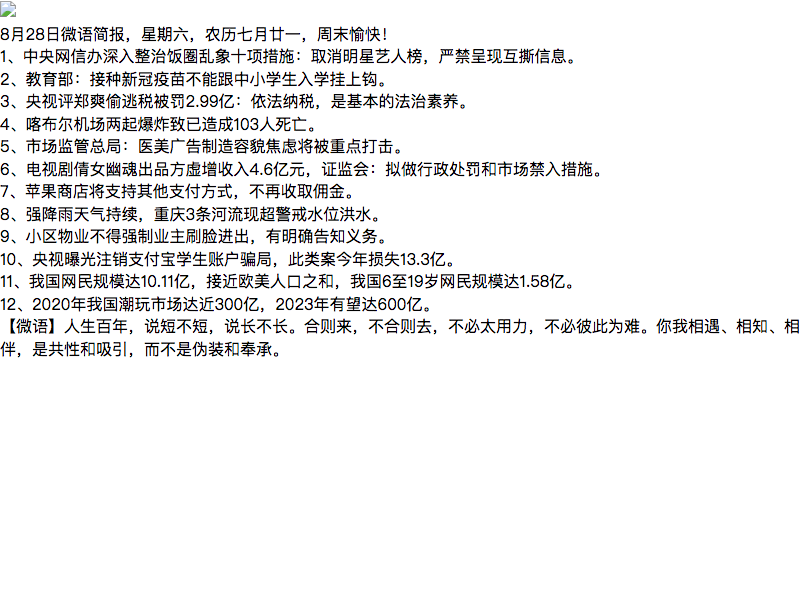
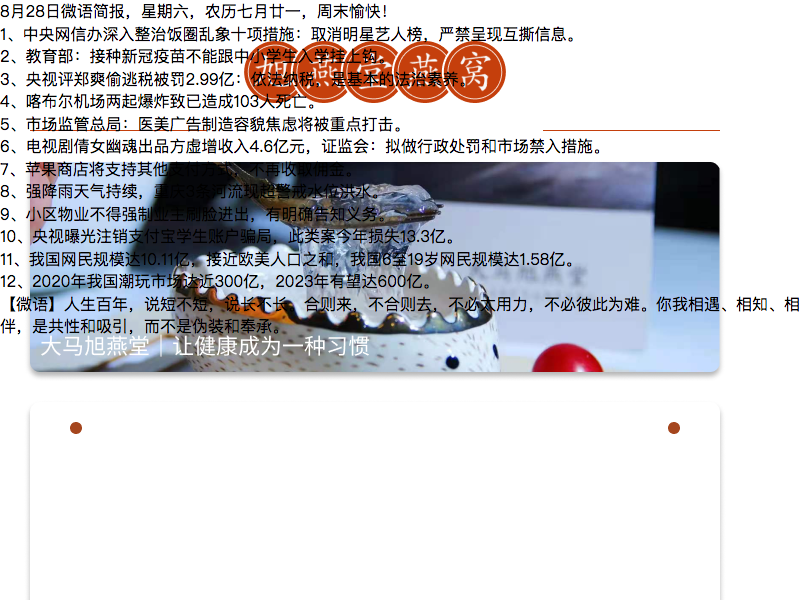
.

diff --git a/wei-yu-spider/html/index.html b/wei-yu-spider/html/index.html
@@ -7,17 +7,95 @@
         margin: 0;
       }
       .container {
-        /* width: 750px; */
+        display: flex;
+        flex-direction: column;
+        align-items: center;
       }
-      .template {
-        /* width: 750px; */
+      .content {
+        width: 690px;
+        opacity: 1;
+        background: #ffffff;
+        border-radius: 10px;
+        box-shadow: 0px 4px 6px 0px rgba(0, 0, 0, 0.3);
+        padding: 20px 70px 17px 70px;
+        font-size: 23px;
+        font-family: Source Han Sans CN, Source Han Sans CN-Regular;
+        font-weight: 400;
+        text-align: JUSTIFIED;
+        color: #a5461e;
+        line-height: 25px;
+      }
+      .content .content-text > p {
+        margin-bottom: 30px;
+      }
+      .every-day-sign {
+        opacity: 0.7;
+        font-size: 20px;
+        font-family: Source Han Sans CN, Source Han Sans CN-Regular;
+        font-weight: 400;
+        text-align: CENTER;
+        color: #a13f19;
+        letter-spacing: 2px;
+      }
+      .content-header {
+        display: flex;
+        justify-content: space-between;
+        align-items: center;
+        margin-bottom: 20px;
+      }
+      .content-header .ball {
+        width: 12px;
+        height: 12px;
+        opacity: 1;
+        background: #a5461e;
+        border-radius: 50%;
+        display: inline-block;
+      }
+      .weiyu {
+        width: 690px;
+        margin-top: 30px;
+      }
+      .weiyu > p {
+        opacity: 0.7;
+        font-size: 22px;
+        font-family: Source Han Sans CN, Source Han Sans CN-Regular;
+        font-weight: 400;
+        text-align: CENTER;
+        color: #a5461e;
       }
     </style>
   </head>
   <body>
     <div class="container">
-      <img class="template" src="./template.png" />
-      <p>8月25日微语简报，星期三，农历七月十八，工作愉快，生活喜乐！</p><p>1、北京住房租赁条例公开征求意见，租金上涨过快可调控。</p><p>2、多地报告本地群众被跨区拉到外地接种疫苗，将严厉打击。</p><p>3、中国残奥代表团开幕式第98个出场。</p><p>4、多款APP下线拍照搜题功能。</p><p>5、抚顺市教育局：义务教育阶段学科类校外培训机构关停率达100%，共关停204所。</p><p>6、福岛核污水排放方式基本敲定：用海底隧道引至海中排出。</p><p>7、联合国机构警告阿富汗9月出现粮食短缺。</p><p>8、美国科学家发现对抗新冠超级抗体：可对抗所有新冠变异毒株。</p><p>9、冲击BBC工作室后，英国反疫苗示威者再闯谷歌办公楼。</p><p>10、阿塔警告美国推迟撤军将越红线，拜登政府面临巨大压力。</p><p>11、乌克兰从阿富汗撤侨飞机遭不明人员劫持。</p><p>12、美实验室曾通报1500多起病原体相关事故。</p><p>【微语】死要面子不如活得痛快，你以为重要的东西，其实都是束缚你的枷锁。人最重要的，只有两样：自信和洒脱。</p>
+      <!-- <img class="template" src="https://github.com/wl05/code-demo/blob/master/wei-yu-spider/html/template.png?raw=true" /> -->
+      <div class="content">
+        <div class="content-header">
+          <span class="ball"></span>
+          <span class="ball"></span>
+        </div>
+        <section class="content-text">
+          <p>8月28日微语简报，星期六，农历七月廿一，周末愉快！</p>
+          <p>1、中央网信办深入整治饭圈乱象十项措施：取消明星艺人榜，严禁呈现互撕信息。</p>
+          <p>2、教育部：接种新冠疫苗不能跟中小学生入学挂上钩。</p>
+          <p>3、央视评郑爽偷逃税被罚2.99亿：依法纳税，是基本的法治素养。</p>
+          <p>4、喀布尔机场两起爆炸致已造成103人死亡。</p>
+          <p>5、市场监管总局：医美广告制造容貌焦虑将被重点打击。</p>
+          <p>6、电视剧倩女幽魂出品方虚增收入4.6亿元，证监会：拟做行政处罚和市场禁入措施。</p>
+          <p>7、苹果商店将支持其他支付方式，不再收取佣金。</p>
+          <p>8、强降雨天气持续，重庆3条河流现超警戒水位洪水。</p>
+          <p>9、小区物业不得强制业主刷脸进出，有明确告知义务。</p>
+          <p>10、央视曝光注销支付宝学生账户骗局，此类案今年损失13.3亿。</p>
+          <p>11、我国网民规模达10.11亿，接近欧美人口之和，我国6至19岁网民规模达1.58亿。</p>
+          <p>12、2020年我国潮玩市场达近300亿，2023年有望达600亿。</p>
+          <p class="every-day-sign">每/日/一/签</p>
+        </section>
+      </div>
+      <div class="weiyu">
+        <p>【微语】</p>
+        <p>人生百年，说短不短，说长不长。</p>
+        <p>合则来，不合则去，不必太用力，不必彼此为难。</p>
+        <p>你我相遇、相知、相伴，是共性和吸引，而不是伪装和奉承。</p>
+      </div>
     </div>
   </body>
 </html>

diff --git a/wei-yu-spider/index.js b/wei-yu-spider/index.js
@@ -17,12 +17,18 @@ const htmlStr = frameData => `<!DOCTYPE html>
       .template {
         /* width: 750px; */
       }
+      .content {
+        position: absolute;
+        top: 0;
+      }
     </style>
   </head>
   <body>
     <div class="container">
-      <img class="template" src="../html/template.png" />
+      <img class="template" src="https://github.com/wl05/code-demo/blob/master/wei-yu-spider/html/template.png?raw=true" />
+      <div class="content">
       ${frameData}
+      </div>
     </div>
   </body>
 </html>
@@ -50,7 +56,6 @@ const requestHistoryArticleList = async () => {
       url,
       method: 'GET'
     })
-    console.log(res)
     return res.data.app_msg_list
   } catch (error) {
     console.log('===error===', error)
@@ -68,15 +73,13 @@ const requestArticleDetail = async url => {
       return /日微语简报/.test(str) || /^[0-9]+、/.test(str) || /【微语】/.test(str)
     })
 
-    console.log(options)
-
     const html = htmlStr(
       options.reduce((pre, cur) => {
         return pre + `<p>${cur}</p>`
       }, '')
     )
 
-    // fs.writeFileSync('./html/index.html', html)
+    fs.writeFileSync('./html/index.html', html)
     await page.setContent(html)
     await page.screenshot({ path: 'example.png' })
     await page.close()
@@ -88,7 +91,6 @@ const requestArticleDetail = async url => {
 
 const stater = async () => {
   const historyArticleList = await requestHistoryArticleList()
-  console.log('===historyArticleList===', historyArticleList)
   const newestArticle = historyArticleList.find(arr => {
     return /日微语简报/.test(arr.title)
   })
